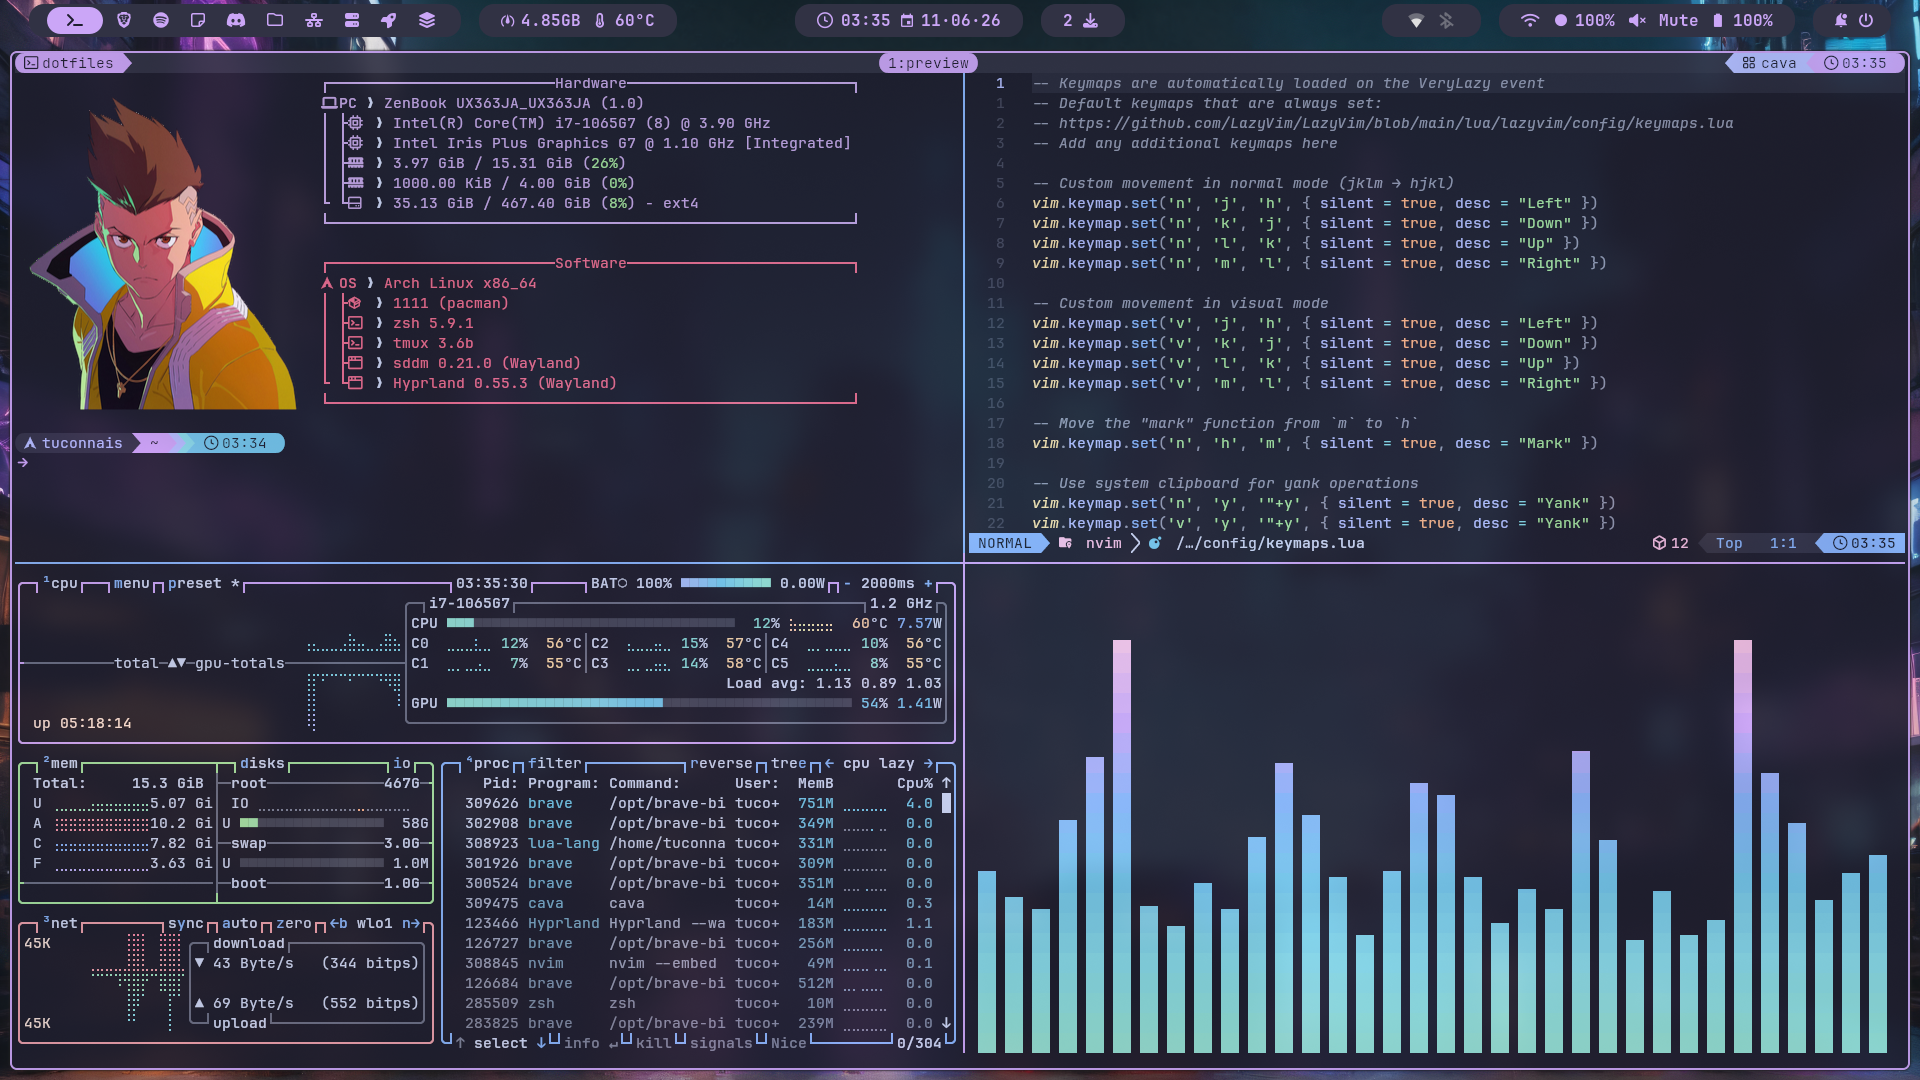
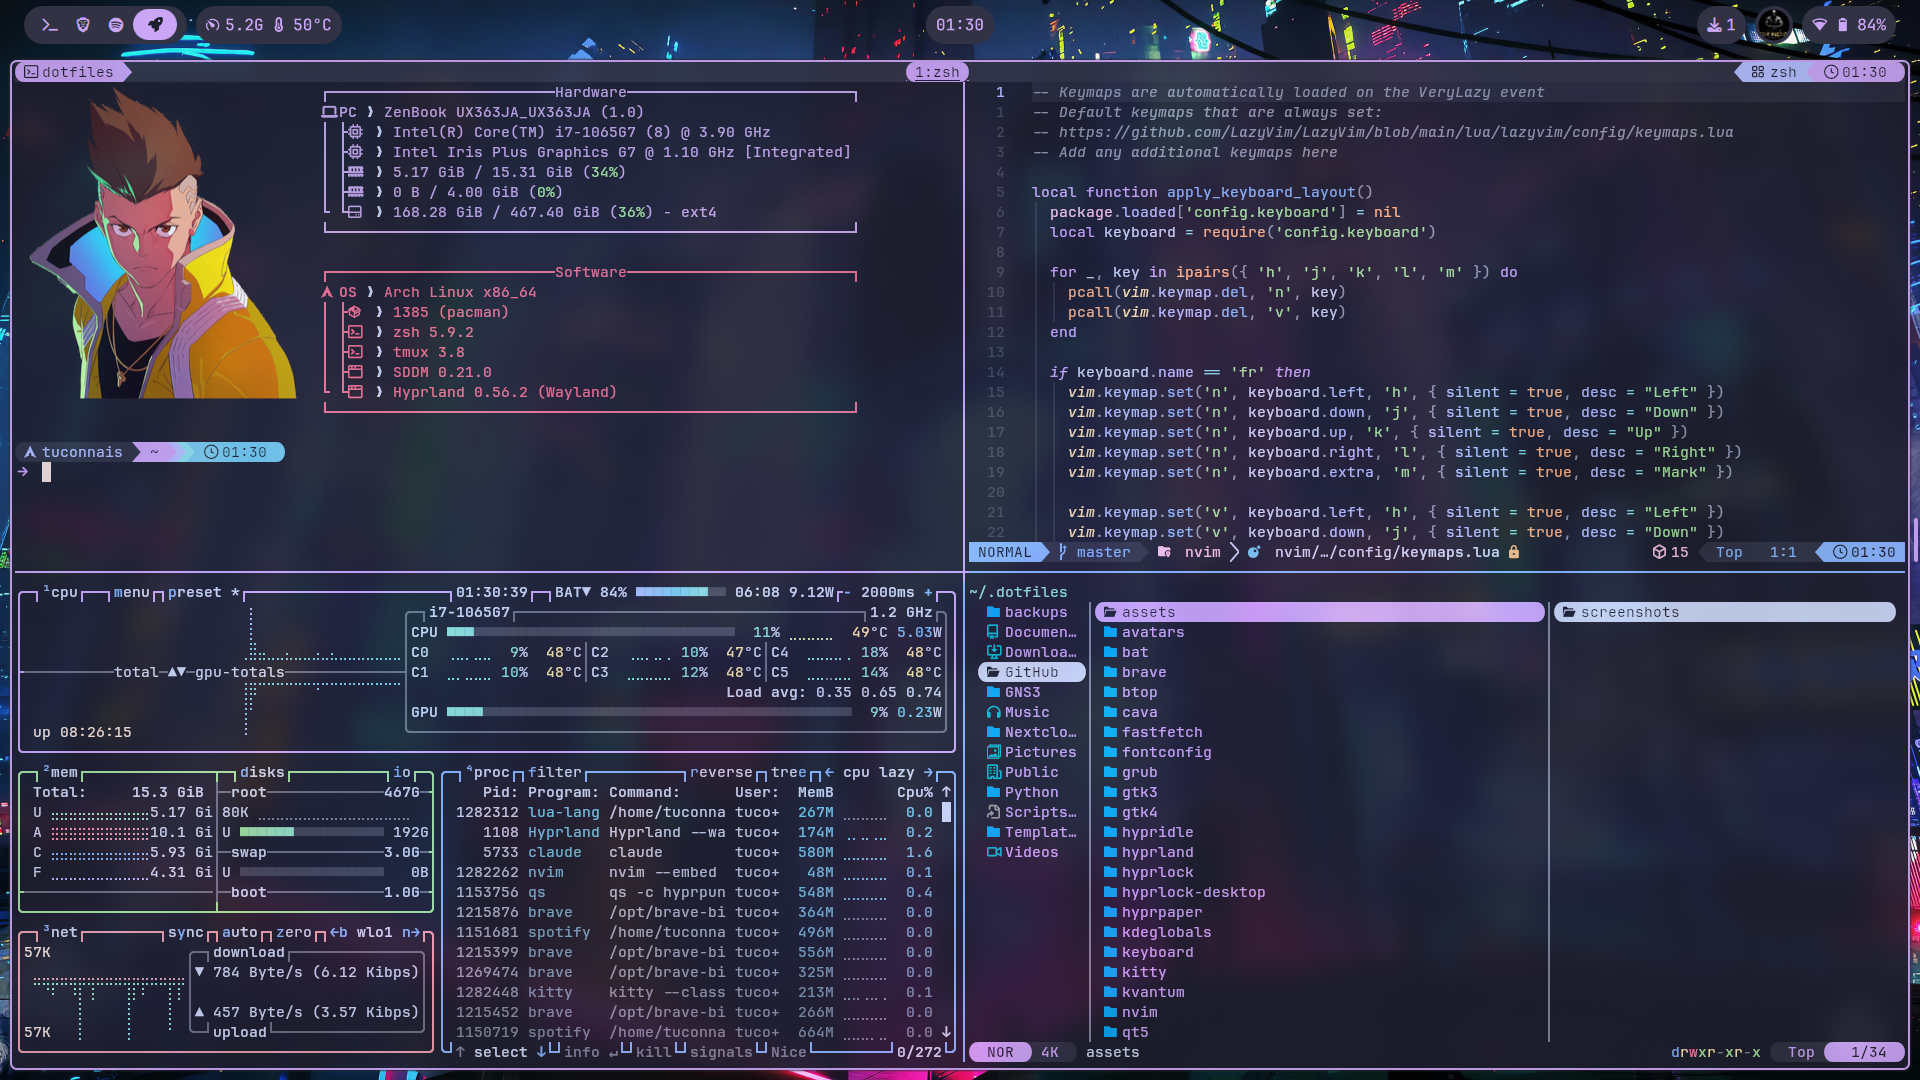
docs(readme): screenshots of the quickshell desktop
Retake the desktop and tmux screenshots with the quickshell bar, and add
the launcher, main menu, control center, session menu, wallpaper and
SDDM theme selectors, keybindings, emoji picker, configuration files and
monitor panels.

Changed region(s): [[0.0, 0.0, 1.0, 1.0], [0.9688, 0.2139, 1.0, 0.3056]]

diff --git a/README.md b/README.md
@@ -16,6 +16,16 @@ The goal is simple: a cohesive, dark, readable, and responsive desktop inspired 
 | ![desktop](./assets/screenshots/desktop.png) | ![tmux](./assets/screenshots/tmux.png) |
 | Hyprlock | SDDM |
 | ![hyprlock](./assets/screenshots/hyprlock.png) | ![sddm](./assets/screenshots/sddm.png) |
+| Application Launcher | Main Menu |
+| ![launcher](./assets/screenshots/launcher.png) | ![main-menu](./assets/screenshots/main-menu.png) |
+| Control Center | Session Menu |
+| ![control-center](./assets/screenshots/control-center.png) | ![session-menu](./assets/screenshots/session-menu.png) |
+| Wallpaper Selector | SDDM Theme Selector |
+| ![wallpaper-selector](./assets/screenshots/wallpaper-selector.png) | ![sddm-theme-selector](./assets/screenshots/sddm-theme-selector.png) |
+| Keybindings | Emoji Picker |
+| ![keybindings](./assets/screenshots/keybindings.png) | ![emoji-picker](./assets/screenshots/emoji-picker.png) |
+| Configuration Files | Monitors |
+| ![config-files](./assets/screenshots/config-files.png) | ![monitors](./assets/screenshots/monitors.png) |
 
 ---
 
